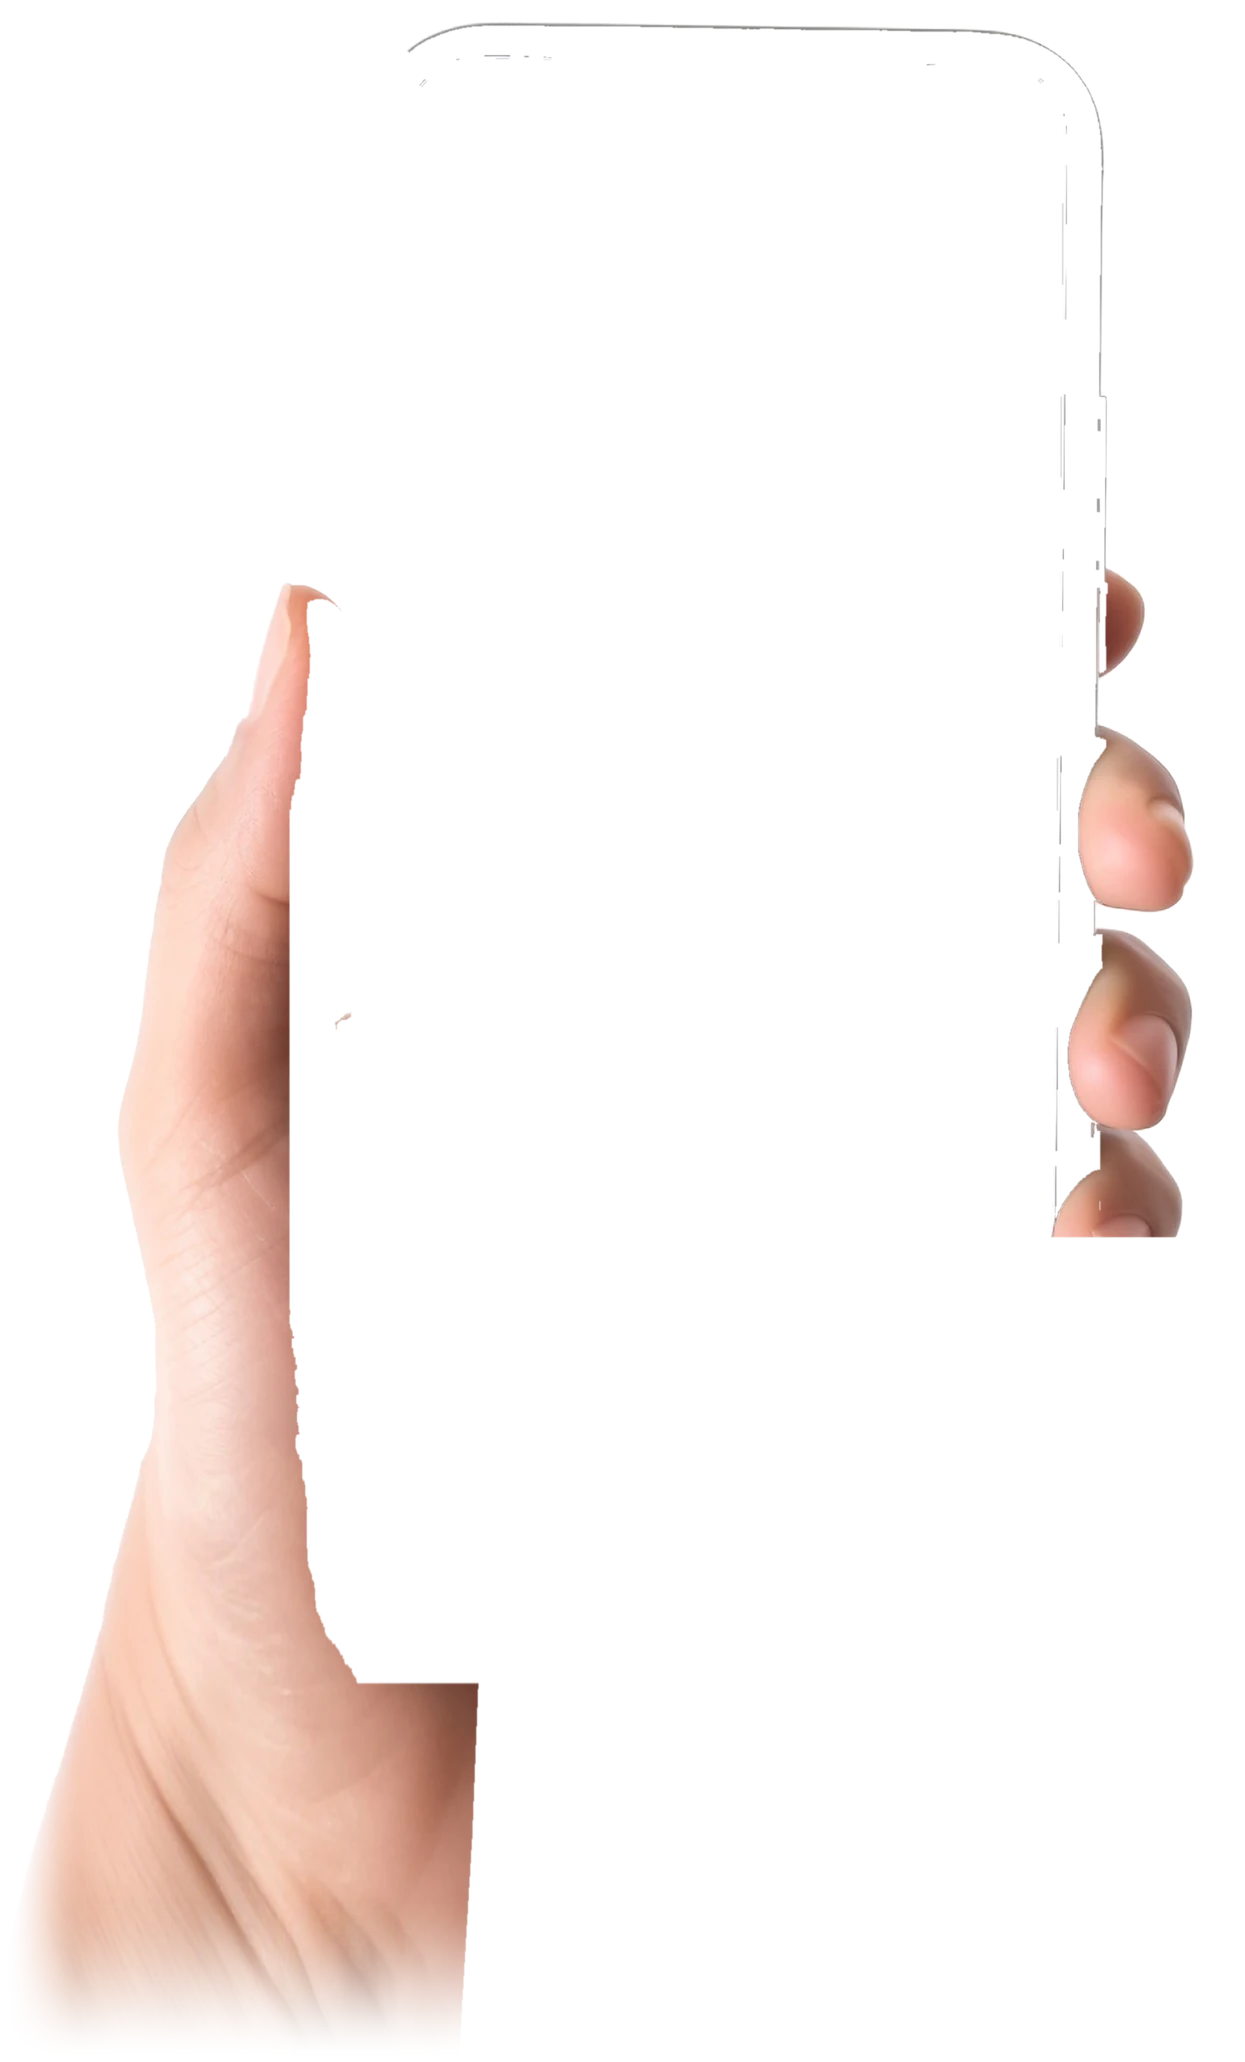
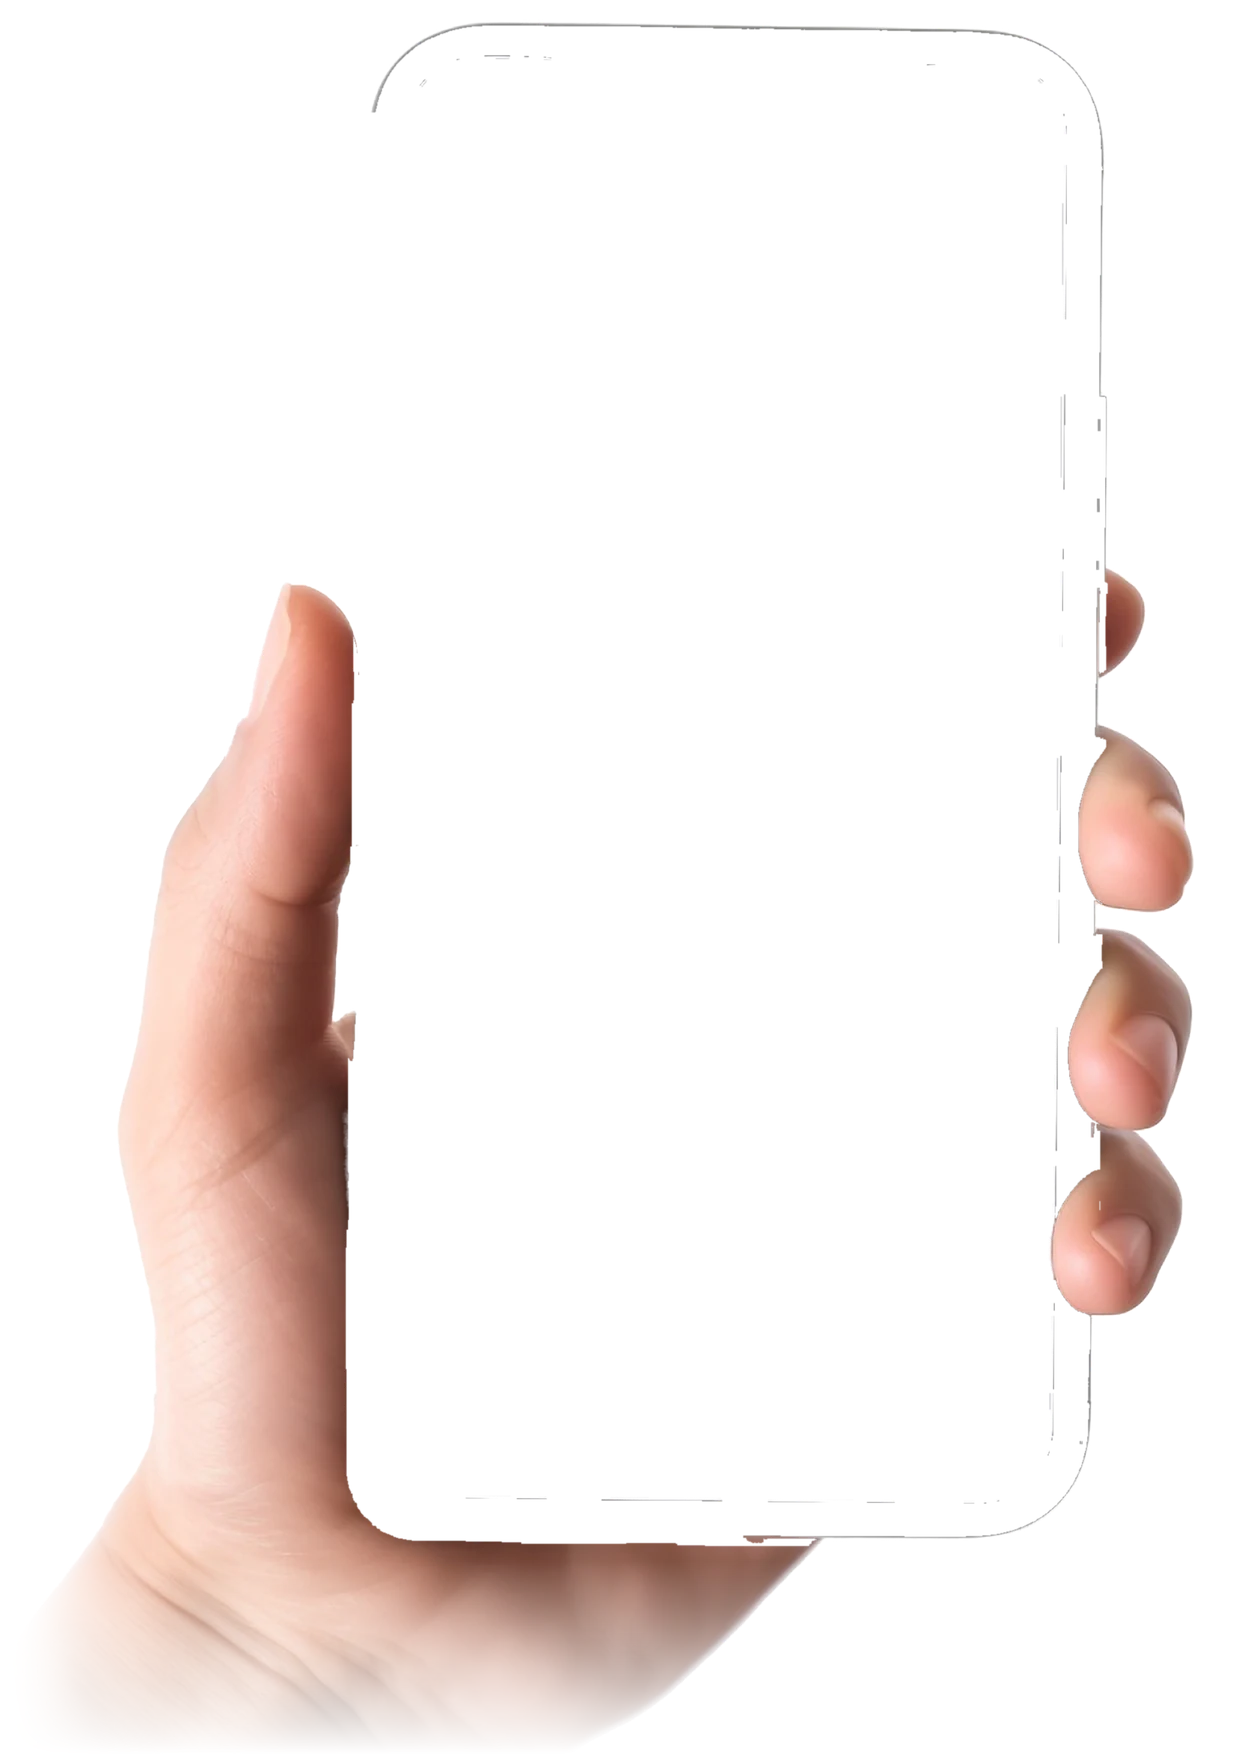
Revert "Activity cards start at the bottom of the phone and slide behind the wrist and forearm"
This reverts commit 2a1bd26cc232a2cfdf19451686a99d7187280c93.

diff --git a/index.html b/index.html
@@ -22,7 +22,7 @@
 <link rel="preconnect" href="https://fonts.googleapis.com">
 <link rel="preconnect" href="https://fonts.gstatic.com" crossorigin>
 <link rel="stylesheet" href="https://fonts.googleapis.com/css2?family=Hanken+Grotesk:wght@400;500;600;700&family=Montserrat:wght@600&display=swap">
-<link rel="stylesheet" href="styles.css?v=33">
+<link rel="stylesheet" href="styles.css?v=30">
 <script type="application/ld+json">
 {"@context":"https://schema.org","@type":"SoftwareApplication","name":"OfficeSwap","operatingSystem":"iOS","applicationCategory":"BusinessApplication","description":"Office owners offer their office on the days they're away, and OfficeSwap assigns it automatically to someone who needs one, first come, first served.","url":"https://officeswap.co/","image":"https://officeswap.co/images/og.jpg?v=2"}
 </script>
@@ -58,9 +58,9 @@
   <div class="hero-video">
     <div class="hold">
       <video src="video/request-flow.mp4?v=5" poster="video/request-flow.jpg?v=5" width="604" height="1312" autoplay muted playsinline preload="auto" aria-label="A short video of someone holding an iPhone and requesting an office in OfficeSwap with their thumb: they tap Request an Office, pick Tuesday and Wednesday, and get an office for both days."></video>
-      <img class="hold-phone" src="images/hand/phone.webp?v=5" alt="" width="1245" height="2062">
-      <img class="hold-still" src="images/hand/handhold.webp?v=25" alt="" width="1245" height="2062">
-      <canvas class="hold-hand" aria-hidden="true" data-thumb="images/hand/thumb.webp?v=5" data-palm="images/hand/palm.webp?v=15"></canvas>
+      <img class="hold-phone" src="images/hand/phone.webp?v=5" alt="" width="1245" height="1762">
+      <img class="hold-still" src="images/hand/handhold.webp?v=14" alt="" width="1245" height="1762">
+      <canvas class="hold-hand" aria-hidden="true" data-thumb="images/hand/thumb.webp?v=4" data-palm="images/hand/palm.webp?v=4"></canvas>
     </div>
     <button type="button" class="replay" hidden aria-label="Play the video again"><svg viewBox="0 0 24 24" fill="none" stroke="currentColor" stroke-width="2" stroke-linecap="round" stroke-linejoin="round" aria-hidden="true"><path d="M3.5 12a8.5 8.5 0 1 0 2.6-6.1"/><path d="M3.5 4v4.5H8"/></svg></button>
   </div>
@@ -254,9 +254,9 @@
   <div class="hero-video reel-bottom">
     <div class="hold">
       <video src="video/request-flow.mp4?v=5" poster="video/request-flow.jpg?v=5" width="604" height="1312" muted playsinline preload="metadata" data-play="in-view" aria-label="The same short video: someone holding an iPhone and requesting an office in OfficeSwap with their thumb: they tap Request an Office, pick Tuesday and Wednesday, and get an office for both days."></video>
-      <img class="hold-phone" src="images/hand/phone.webp?v=5" alt="" width="1245" height="2062">
-      <img class="hold-still" src="images/hand/handhold.webp?v=25" alt="" width="1245" height="2062">
-      <canvas class="hold-hand" aria-hidden="true" data-thumb="images/hand/thumb.webp?v=5" data-palm="images/hand/palm.webp?v=15"></canvas>
+      <img class="hold-phone" src="images/hand/phone.webp?v=5" alt="" width="1245" height="1762">
+      <img class="hold-still" src="images/hand/handhold.webp?v=14" alt="" width="1245" height="1762">
+      <canvas class="hold-hand" aria-hidden="true" data-thumb="images/hand/thumb.webp?v=4" data-palm="images/hand/palm.webp?v=4"></canvas>
     </div>
     <button type="button" class="replay" hidden aria-label="Play the video again"><svg viewBox="0 0 24 24" fill="none" stroke="currentColor" stroke-width="2" stroke-linecap="round" stroke-linejoin="round" aria-hidden="true"><path d="M3.5 12a8.5 8.5 0 1 0 2.6-6.1"/><path d="M3.5 4v4.5H8"/></svg></button>
   </div>
@@ -589,6 +589,6 @@
     document.addEventListener("click", function (e) { if (m.open && !m.contains(e.target)) m.removeAttribute("open"); });
   })();
 </script>
-<script src="hand.js?v=12" defer></script>
+<script src="hand.js?v=10" defer></script>
 </body>
 </html>

diff --git a/styles.css b/styles.css
@@ -141,7 +141,7 @@ section.band.gray { background: linear-gradient(180deg, var(--bg-2), var(--bg));
 .phones .p-center { --w: clamp(250px, 26vw, 330px); transform: translateX(-50%); z-index: 3; }
 .phones .p-left { --w: clamp(210px, 22vw, 280px); transform: translateX(-128%) translateY(70px) rotate(-6deg); z-index: 2; }
 .phones .p-right { --w: clamp(210px, 22vw, 280px); transform: translateX(28%) translateY(70px) rotate(6deg); z-index: 2; }
-.hero-video { position: relative; display: flex; justify-content: center; max-width: 1180px; margin: 64px auto 0; padding: 0 24px 0; box-sizing: border-box; }
+.hero-video { position: relative; display: flex; justify-content: center; max-width: 1180px; margin: 64px auto 0; padding: 0 24px 24px; box-sizing: border-box; }
 .hero-video .replay {
   position: absolute; bottom: 50%; width: 48px; height: 48px; border: 0; border-radius: 50%;
   display: grid; place-items: center; cursor: pointer; color: #1d1d1f;
@@ -154,15 +154,14 @@ section.band.gray { background: linear-gradient(180deg, var(--bg-2), var(--bg));
 .hero-video .replay:focus-visible { outline: 2px solid #1d1d1f; outline-offset: 3px; }
 .hero-video .replay svg { width: 22px; height: 22px; }
 .hero { overflow: visible; overflow-x: clip; }
-:root { --hw: clamp(420px, 44vw, 600px); }
-.hero-video { z-index: 3; }
-.hold { position: relative; width: var(--hw); flex: none; aspect-ratio: 1245 / 2062; left: calc(var(--hw) * -0.086); }
+.hero-video { --hw: clamp(420px, 44vw, 600px); }
+.hold { position: relative; width: var(--hw); flex: none; aspect-ratio: 1245 / 1762; left: calc(var(--hw) * -0.086); }
 .hold video { position: absolute; left: 0; top: 0; transform-origin: 0 0; object-fit: fill; background: #f2f2f7; }
-.hold-phone, .hold-still { position: absolute; left: 0; top: 0; width: 100%; height: auto; pointer-events: none; }
+.hold-phone, .hold-still { position: absolute; inset: 0; width: 100%; height: 100%; pointer-events: none; }
 .hold-hand { position: absolute; top: 0; pointer-events: none; }
 .hold.live .hold-still { visibility: hidden; }
-.hero-video .replay { z-index: 6; left: calc(50% + var(--hw) * 0.40 + 12px); top: calc(var(--hw) * 0.6); bottom: auto; }
-@media (max-width: 700px) { .hero-video .replay { left: auto; right: 16px; top: calc(var(--hw) * 0.6); width: 44px; height: 44px; } }
+.hero-video .replay { z-index: 6; left: calc(50% + var(--hw) * 0.40 + 12px); }
+@media (max-width: 700px) { .hero-video .replay { left: auto; right: 16px; bottom: 34%; width: 44px; height: 44px; } }
 .iphone > video { aspect-ratio: 604 / 1312; object-fit: cover; }
 .phones::after { content: ""; position: absolute; left: 0; right: 0; bottom: 0; height: 180px; background: linear-gradient(transparent, var(--bg)); z-index: 4; }
 @media (max-width: 700px) {
@@ -172,9 +171,7 @@ section.band.gray { background: linear-gradient(180deg, var(--bg-2), var(--bg));
 }
 
 /* ---------- Activity marquee ---------- */
-.activity { position: relative; z-index: 1; padding: 30px 0 10px; overflow: hidden;
-  /* The cards start just under the hero phone and slide behind the forearm, which runs on past them. */
-  margin-top: calc(var(--hw) * -0.449 - 20px); }
+.activity { position: relative; padding: 30px 0 10px; overflow: hidden; }
 .activity::before, .activity::after { content: ""; position: absolute; top: 0; bottom: 0; width: 18%; z-index: 2; pointer-events: none; }
 .activity::before { left: 0; background: linear-gradient(90deg, var(--bg), transparent); }
 .activity::after { right: 0; background: linear-gradient(-90deg, var(--bg), transparent); }

diff --git a/hand.js b/hand.js
@@ -5,7 +5,7 @@
    clock: reaches over, presses each button, flicks the form up, and returns to rest on the edge. */
 (function () {
   // ---- Photo geometry, in pixels of the 1245x1762 layers ----
-  var IMG_W = 1245, IMG_H = 2062;
+  var IMG_W = 1245, IMG_H = 1762;
   var SCREEN = { tl: [406.7, 57.0], tr: [1066.1, 68.3], br: [1049.7, 1503.0], bl: [390.0, 1495.0] };
   var THUMB_BOX = [133, 580, 360, 1133];     // where the thumb piece sits at rest
   var PIVOT = [240, 1125];               // its base knuckle, hidden under the palm
